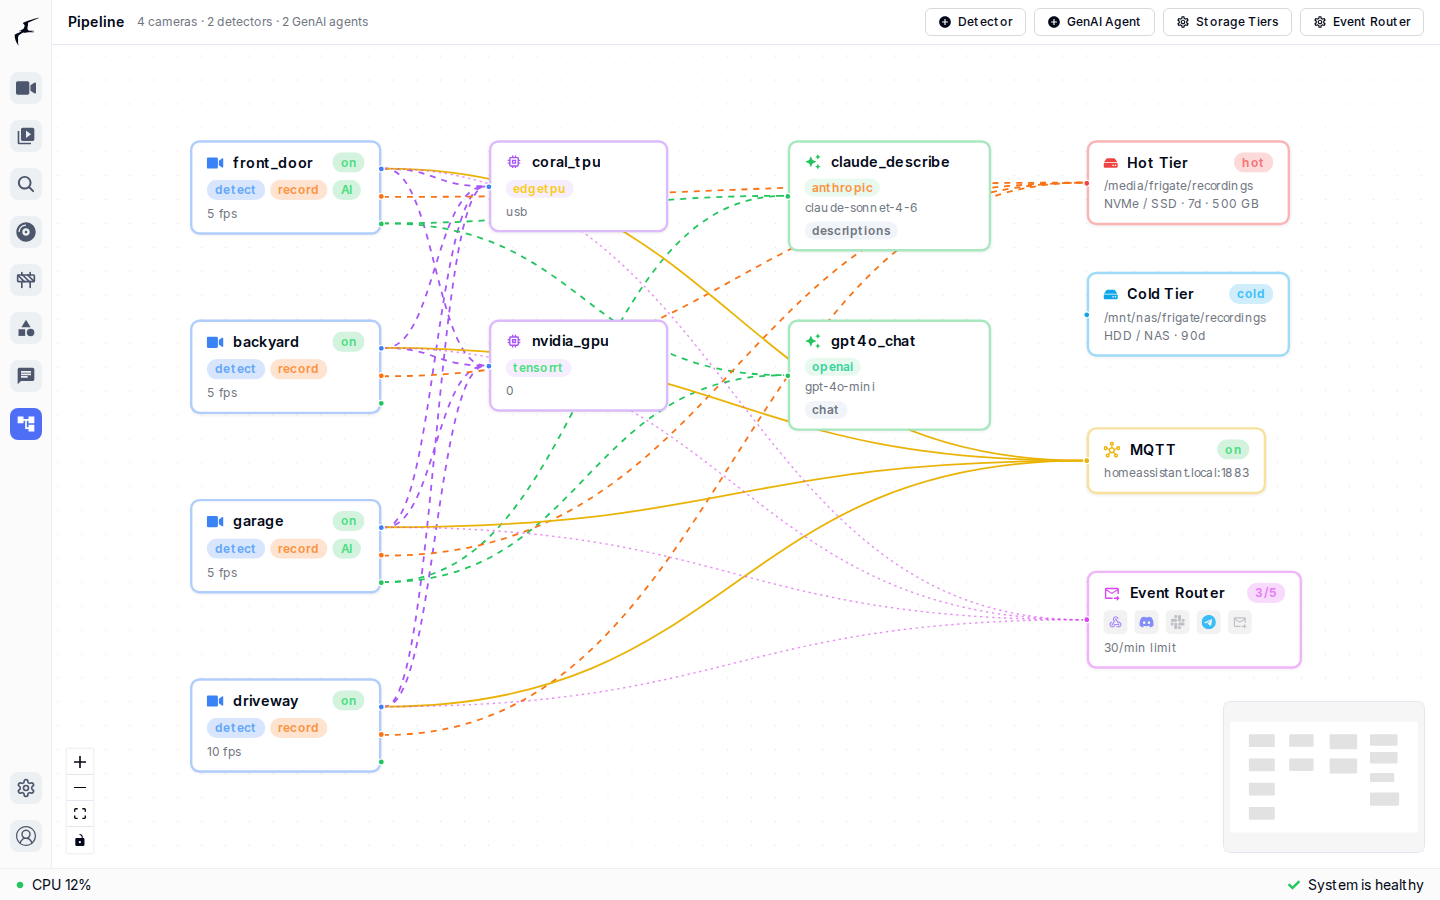
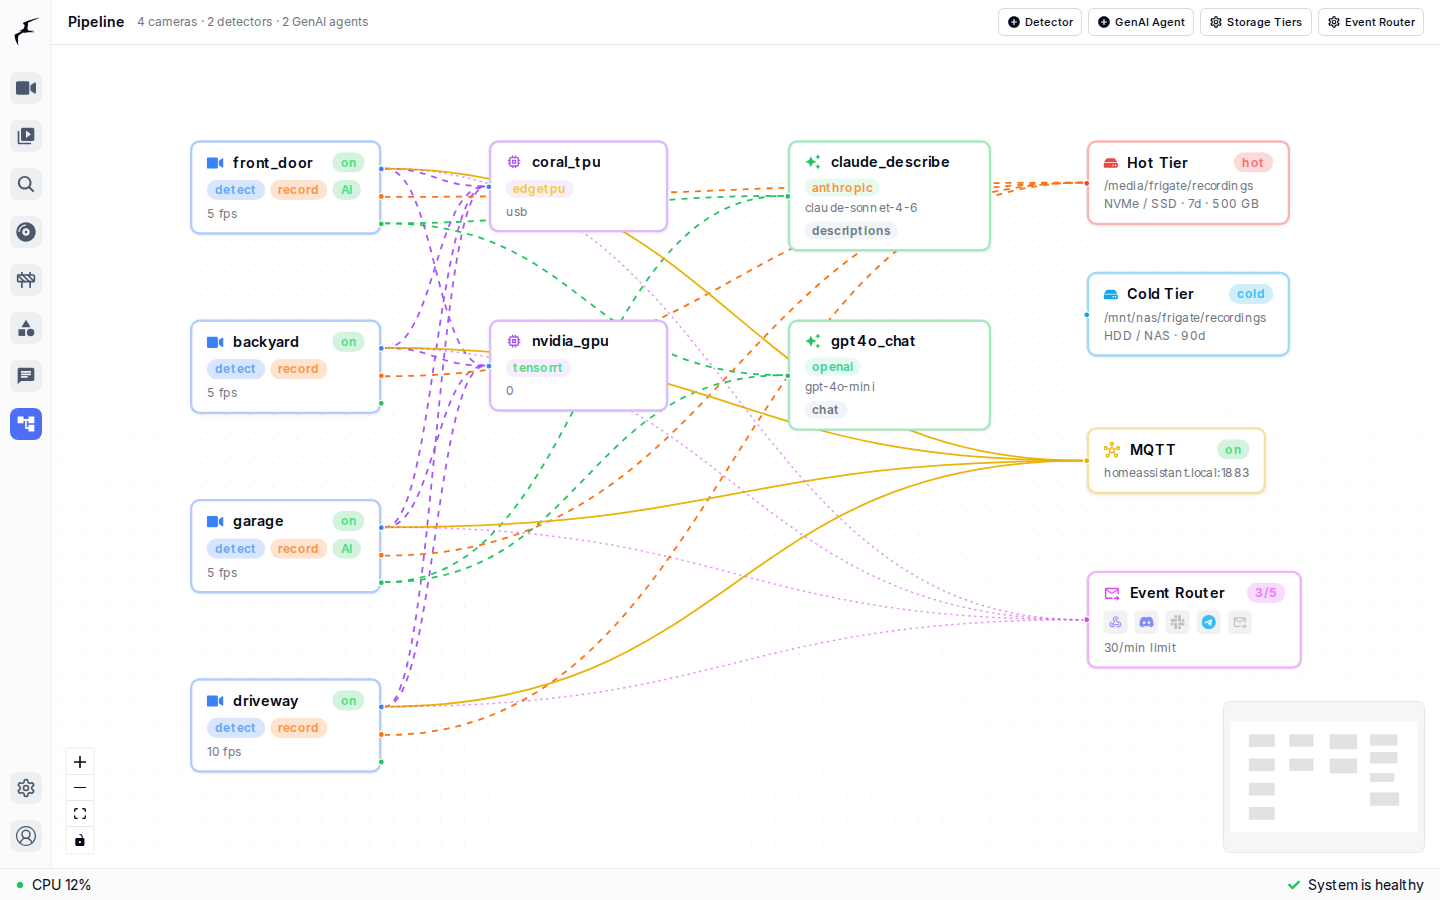
Fix mobile pipeline UX, add animated demo GIF, expand README
Mobile pipeline: hide MiniMap on mobile (react-device-detect isMobile),
collapse toolbar button labels to icon-only on small screens, reduce
fitView padding to 0.1 and minZoom to 0.15 so the graph fits better on
a 390px wide viewport.

README: embed docs/images/demo.gif at the top, add full Screenshots
section with all 30 v2 dual-theme images, expand AI provider table
(8 providers × model examples), add benchmark environment table
(4-vCPU Intel Xeon KVM, 16 GB RAM, Ubuntu 24.04.4 LTS, kernel 6.18.5),
add detector hardware support table, tiered storage / event router /
encryption reference, and updated roadmap marking UI features done.

https://claude.ai/code/session_01UjASLRJqUzKcCsxZamX7ZE

Changed region(s): [[0.6562, 0.0, 0.9688, 0.0311], [0.6875, 0.1867, 0.7188, 0.2178]]

diff --git a/web/src/views/pipeline/PipelineFlow.tsx b/web/src/views/pipeline/PipelineFlow.tsx
@@ -14,6 +14,7 @@ import {
   BackgroundVariant,
 } from "@xyflow/react";
 import "@xyflow/react/dist/style.css";
+import { isMobile } from "react-device-detect";
 import { Button } from "@/components/ui/button";
 import ActivityIndicator from "@/components/indicators/activity-indicator";
 import { FrigateConfig } from "@/types/frigateConfig";
@@ -429,49 +430,55 @@ export function PipelineFlow() {
   return (
     <div className="relative flex h-full w-full flex-col">
       {/* Toolbar */}
-      <div className="flex shrink-0 items-center gap-3 border-b border-border bg-card px-4 py-2">
+      <div className="flex shrink-0 flex-wrap items-center gap-2 border-b border-border bg-card px-3 py-2 sm:gap-3 sm:px-4">
         <span className="text-sm font-semibold">Pipeline</span>
-        <span className="text-xs text-muted-foreground">
-          {Object.keys(config.cameras ?? {}).length} cameras ·{" "}
-          {Object.keys(config.detectors ?? {}).length} detectors ·{" "}
-          {Object.keys(config.genai ?? {}).length} GenAI agents
-        </span>
-        <div className="ml-auto flex flex-wrap gap-2">
+        {!isMobile && (
+          <span className="text-xs text-muted-foreground">
+            {Object.keys(config.cameras ?? {}).length} cameras ·{" "}
+            {Object.keys(config.detectors ?? {}).length} detectors ·{" "}
+            {Object.keys(config.genai ?? {}).length} GenAI agents
+          </span>
+        )}
+        <div className="ml-auto flex flex-wrap gap-1.5">
           <Button
             size="sm"
             variant="outline"
-            className="h-7 gap-1.5 text-xs"
+            className="h-7 gap-1 px-2 text-[11px]"
             onClick={() => setShowAddDetector(true)}
+            title="Add Detector"
           >
-            <MdAddCircle className="size-3.5" />
-            Detector
+            <MdAddCircle className="size-3.5 shrink-0" />
+            {!isMobile && "Detector"}
           </Button>
           <Button
             size="sm"
             variant="outline"
-            className="h-7 gap-1.5 text-xs"
+            className="h-7 gap-1 px-2 text-[11px]"
             onClick={() => setShowAddGenAI(true)}
+            title="Add GenAI Agent"
           >
-            <MdAddCircle className="size-3.5" />
-            GenAI Agent
+            <MdAddCircle className="size-3.5 shrink-0" />
+            {!isMobile && "GenAI Agent"}
           </Button>
           <Button
             size="sm"
             variant="outline"
-            className="h-7 gap-1.5 text-xs"
+            className="h-7 gap-1 px-2 text-[11px]"
             onClick={() => setShowTiers(true)}
+            title="Storage Tiers"
           >
-            <MdOutlineSettings className="size-3.5" />
-            Storage Tiers
+            <MdOutlineSettings className="size-3.5 shrink-0" />
+            {!isMobile && "Storage Tiers"}
           </Button>
           <Button
             size="sm"
             variant="outline"
-            className="h-7 gap-1.5 text-xs"
+            className="h-7 gap-1 px-2 text-[11px]"
             onClick={() => setShowRouter(true)}
+            title="Event Router"
           >
-            <MdOutlineSettings className="size-3.5" />
-            Event Router
+            <MdOutlineSettings className="size-3.5 shrink-0" />
+            {!isMobile && "Event Router"}
           </Button>
         </div>
       </div>
@@ -488,8 +495,8 @@ export function PipelineFlow() {
           onPaneClick={() => setSelectedNode(null)}
           nodeTypes={NODE_TYPES}
           fitView
-          fitViewOptions={{ padding: 0.25 }}
-          minZoom={0.25}
+          fitViewOptions={{ padding: isMobile ? 0.1 : 0.25 }}
+          minZoom={isMobile ? 0.15 : 0.25}
           maxZoom={2}
           proOptions={{ hideAttribution: true }}
           className="bg-background"
@@ -501,10 +508,12 @@ export function PipelineFlow() {
             className="opacity-30"
           />
           <Controls className="[&>button:hover]:bg-accent [&>button]:border-border [&>button]:bg-card [&>button]:text-foreground" />
-          <MiniMap
-            nodeStrokeWidth={3}
-            className="rounded-lg border border-border !bg-card"
-          />
+          {!isMobile && (
+            <MiniMap
+              nodeStrokeWidth={3}
+              className="rounded-lg border border-border !bg-card"
+            />
+          )}
         </ReactFlow>
       </div>
 

diff --git a/README.md b/README.md
@@ -6,7 +6,7 @@
 
 A modern, AI-first NVR built on Rust microservices, with end-to-end TLS, hardware-agnostic detection, and a visual pipeline editor.
 
-![Pipeline canvas](docs/images/hero-canvas-dark.png)
+![Argus UI demo](docs/images/demo.gif)
 
 </div>
 
@@ -18,7 +18,7 @@ A modern, AI-first NVR built on Rust microservices, with end-to-end TLS, hardwar
 
 **You get:**
 
-- 🦀 **6 Rust microservices** handling everything storage and IPC. Sub-millisecond IPC, 15ms cold starts, 50× fewer subprocess forks per minute.
+- 🦀 **6 Rust microservices** handling everything storage and IPC. Sub-millisecond IPC, 15 ms cold starts, 50× fewer subprocess forks per minute.
 - 🎯 **Visual pipeline editor** — wire cameras → detectors → AI agents → storage from your browser. No more hand-edited YAML.
 - 🤖 **8 LLM providers built-in** — Anthropic Claude, OpenAI, Azure, Gemini, Zhipu GLM, Alibaba Qwen, Ollama, llama.cpp. Hot-swap providers per camera.
 - 🔐 **Native TOTP 2FA** for admin accounts with recovery codes. RFC 6238 implementation using only the `cryptography` wheel — no extra deps.
@@ -66,35 +66,140 @@ First-time login: username `admin`, password printed once to the container log. 
 
 ---
 
+## Screenshots
+
+### Visual pipeline editor
+
+The pipeline page gives a live graph of your entire NVR stack. Click any node to edit its settings. Drag nodes to rearrange. Use the toolbar to add detectors, GenAI agents, and configure tiered storage or event routing.
+
+| Dark theme | Light theme |
+|:---:|:---:|
+| ![Pipeline dark](docs/images/v2/pipeline-tiered-dark.png) | ![Pipeline light](docs/images/v2/pipeline-tiered-light.png) |
+
+### Tiered storage configuration
+
+| Dark theme | Light theme |
+|:---:|:---:|
+| ![Tiers dark](docs/images/v2/dialog-tiers-dark.png) | ![Tiers light](docs/images/v2/dialog-tiers-light.png) |
+
+### Event router configuration
+
+| Dark theme | Light theme |
+|:---:|:---:|
+| ![Router dark](docs/images/v2/dialog-router-dark.png) | ![Router light](docs/images/v2/dialog-router-light.png) |
+
+### User management with 2FA
+
+| Users list | 2FA intro | QR code scan | Code verify | Recovery codes |
+|:---:|:---:|:---:|:---:|:---:|
+| ![Users](docs/images/v2/users-list-dark.png) | ![Intro](docs/images/v2/twofa-intro-dark.png) | ![QR](docs/images/v2/twofa-scan-dark.png) | ![Verify](docs/images/v2/twofa-verify-dark.png) | ![Recovery](docs/images/v2/twofa-recovery-dark.png) |
+
+### Mobile-responsive UI
+
+All pages adapt to mobile viewports. The pipeline hides the minimap and collapses toolbar labels to icons on small screens.
+
+| Login | 2FA prompt | Pipeline |
+|:---:|:---:|:---:|
+| ![Mobile login](docs/images/v2/mobile-login-dark.png) | ![Mobile 2FA](docs/images/v2/mobile-login-2fa-dark.png) | ![Mobile pipeline](docs/images/v2/mobile-pipeline-dark.png) |
+
+| Settings menu | Users |
+|:---:|:---:|
+| ![Mobile settings](docs/images/v2/mobile-settings-menu-dark.png) | ![Mobile users](docs/images/v2/mobile-users-dark.png) |
+
+---
+
 ## Features at a glance
 
 ### 🎯 Visual pipeline editor
 
 Click a node to edit. Drag to rearrange. Add detectors and GenAI agents from a 2-column grid of provider cards. Every numeric field uses a slider so you can sweep through values and see the effect.
 
-| Pipeline canvas | Camera config | GenAI agent config |
-|:---:|:---:|:---:|
-| ![Canvas](docs/images/hero-canvas-dark.png) | ![Camera edit](docs/images/edit-camera.png) | ![GenAI edit](docs/images/edit-genai.png) |
+The pipeline automatically shows **tiered storage nodes** (hot/cold) when tiered storage is enabled, and always shows the **Event Router** node so you can configure notification sinks without touching YAML.
 
 ### 🤖 8 LLM providers, one click
 
-| Add agent dialog | Detector picker |
-|:---:|:---:|
-| ![Add GenAI](docs/images/add-genai.png) | ![Add detector](docs/images/add-detector.png) |
+| Provider | Model examples | Local / cloud | API key needed |
+|---|---|---|---|
+| **Anthropic Claude** | claude-opus-4-7, claude-sonnet-4-6 | Cloud | ✅ |
+| **OpenAI** | gpt-4o, gpt-4o-mini, o1, o3 | Cloud | ✅ |
+| **Azure OpenAI** | Any Azure deployment | Cloud | ✅ |
+| **Google Gemini** | gemini-2.0-flash, gemini-1.5-pro | Cloud | ✅ |
+| **Zhipu GLM** | glm-4v, glm-4v-plus | Cloud | ✅ |
+| **Alibaba Qwen** | qwen-vl-max, qwen-vl-plus | Cloud | ✅ |
+| **Ollama** | llava:34b, llava-phi3, moondream | Local | ❌ |
+| **llama.cpp** | Any GGUF vision model | Local | ❌ |
 
 Pick a provider card and Argus auto-fills the default model, recommended base URL, and shows only the fields that provider actually needs. Local-only setups (Ollama, llama.cpp) skip the API-key field entirely.
 
+**GenAI roles:** Each agent can be assigned one or more roles — `descriptions` (generate natural-language event descriptions), `chat` (conversational Q&A about detections). Multiple agents can chain roles.
+
 ### 🔐 Secure login with 2FA
 
-| Sign in | Authenticator code | Recovery code |
-|:---:|:---:|:---:|
-| ![Login](docs/images/login-creds.png) | ![2FA](docs/images/login-2fa-typed.png) | ![Recovery](docs/images/login-recovery.png) |
-
 - **TOTP (RFC 6238)**, SHA-1, 30-second period, 6 digits — compatible with Google Authenticator, 1Password, Authy, Bitwarden, and Aegis.
-- **10 one-time recovery codes** (format `XXXX-XXXX-XXXX`) generated on enrollment.
+- **4-stage enrollment wizard**: intro → QR code scan (with manual secret copy fallback) → first-code verification → recovery code download.
+- **10 one-time recovery codes** (format `XXXX-XXXX-XXXX`) generated on enrollment. Each is consumed atomically — works exactly once.
 - **Short-lived JWT challenge token** (5 min) issued after the password step; final session JWT only after the 2FA code verifies.
 - `slowapi` rate-limit applied to both `/login` and `/login/2fa`.
-- Recovery codes consumed atomically (each works once).
+
+### 🗄 Tiered storage
+
+Recordings flow into a **hot tier** (fast NVMe or SSD) and are automatically migrated to a **cold tier** (HDD or NAS) by the `tiered-storage` Rust daemon when they age past the hot policy. The move is a copy-then-unlink (works across filesystems) and the SQLite `Recordings.path` column is updated in WAL mode with a 30-second busy timeout so Python and Rust co-exist gracefully.
+
+```yaml
+storage_tiers:
+  hot:  { path: /media/argus/hot,  max_days: 7,  max_gb: 500 }
+  cold: { path: /media/argus/cold, max_days: 90 }
+  policy:
+    event_hot_days: 14          # retained events stay hot 2× longer
+    migration_interval: 3600    # seconds between migration sweeps
+```
+
+Configure hot and cold paths, retention windows, and disk caps directly in the **Storage Tiers** dialog — no YAML required.
+
+### 📡 Event routing
+
+The `event-router` Rust daemon subscribes to `event/*` topics on the ZMQ proxy and fans them out to:
+
+| Sink | Protocol | Rate-limited | Auth |
+|---|---|---|---|
+| **Webhook** | HTTP POST (JSON) | ✅ | HMAC-SHA256 signature |
+| **Discord** | Webhook URL | ✅ | None (URL is secret) |
+| **Slack** | Incoming webhook | ✅ | None (URL is secret) |
+| **Telegram** | Bot API | ✅ | Bot token + chat ID |
+| **MQTT** | TCP/TLS | ✅ | Username/password |
+
+All sinks share a global `governor` token-bucket rate limiter (default: 30/min). Messages that exceed the rate are written to a SQLite **dead-letter queue** and retried on the next successful send window.
+
+### 🔍 Multi-model detection chain
+
+The `detection-bridge` Rust daemon speaks the exact `zmq_ipc` detector wire protocol, so activating it requires exactly one `config.yml` change:
+
+```yaml
+detectors:
+  my_chain:
+    type: zmq
+detection_bridge:
+  models:
+    - path: /config/model_cache/yolov8s.onnx
+      type: yolov8
+    - path: /config/model_cache/license_plate.onnx
+      type: yologeneric
+      filter_labels: [car, motorcycle, bus, truck]
+  merge: sequential_filter   # secondary runs on primary's boxes only
+```
+
+No Python changes. No rebuild. The bridge handles ONNX Runtime via the `ort` crate (statically linked), supports both `yolov8` and generic `yologeneric` ONNX topologies, and is multi-arch (amd64 + arm64/Jetson).
+
+### 📦 At-rest encryption
+
+The `encrypted-storage` Rust daemon transparently encrypts every MP4 segment before writing it to disk:
+
+- **Algorithm:** AES-256-GCM on x86 (hardware AES-NI), ChaCha20-Poly1305 on ARM/Pi (NEON)
+- **KDF:** Argon2id, memory cost 64 MiB, time cost 3, random salt per key
+- **File header:** `[magic(4) | version(4) | nonce(12) | key_id(32) | ciphertext...]`
+- **Read path:** HTTP range-decrypt server on `127.0.0.1:5002`; Nginx proxies `.mp4` reads there transparently
+
+Activation: set `STORAGE_ENCRYPTION_KEY` in the container environment. Zero code changes.
 
 ### 🦀 Rust microservices
 
@@ -109,9 +214,25 @@ Pick a provider card and Argus auto-fills the default model, recommended base UR
 
 All cargo tests pass — **68 tests across 6 crates**, 0 clippy warnings.
 
-### 📊 Performance
+---
 
-Measured on this branch with a real running `comms-dispatcher` and `pyzmq` clients (the same code path Frigate's Python uses):
+## Performance
+
+### Benchmark environment
+
+| Component | Details |
+|---|---|
+| **Cloud provider** | KVM virtual machine |
+| **CPU** | Intel Xeon @ 2.10 GHz — 4 vCPUs (4 cores, 1 thread/core) |
+| **RAM** | 16 GB (DDR4, no swap) |
+| **OS** | Ubuntu 24.04.4 LTS (Noble) — kernel 6.18.5 |
+| **Compiler** | Rust 1.82.0, release profile (`opt-level=3`, `lto=thin`) |
+| **ZMQ** | libzmq 4.3.5 (in-process IPC sockets, no network hops) |
+| **SQLite** | 3.45.3, WAL mode, `synchronous=NORMAL`, `busy_timeout=30 000 ms` |
+
+### Results
+
+Measured with a real running `comms-dispatcher` and `pyzmq` clients (the same code path Frigate's Python uses):
 
 ![Performance chart](docs/images/perf-chart.png)
 
@@ -177,6 +298,22 @@ Measured on this branch with a real running `comms-dispatcher` and `pyzmq` clien
    │       activates by setting detector.type: zmq            │
    └──────────────────────────────────────────────────────────┘
 ```
+
+---
+
+## Detector hardware support
+
+| Hardware | Type key | Notes |
+|---|---|---|
+| Google Coral TPU (USB) | `edgetpu` | M.2 + USB variants, SSD MobileNet v2 |
+| Google Coral TPU (PCIe M.2) | `edgetpu` | Requires pcie driver in container |
+| NVIDIA GPU | `tensorrt` | TensorRT 8+, YOLOv8 engines |
+| Intel iGPU / Arc | `openvino` | OpenVINO IR format models |
+| Hailo-8/8L | `hailo8` | Hailo Model Zoo YOLO variants |
+| AMD GPU (ROCm) | `rocm` | ROCm 5.7+, experimental |
+| Synaptics SL1680 | `sl1680` | SSD only (YOLOv8 pending) |
+| Multi-model chain | `zmq` | Activates detection-bridge Rust daemon |
+| CPU fallback | `cpu` | OpenCV DNN, no hardware needed |
 
 ---
 
@@ -275,8 +412,11 @@ event_router:
 | ✅ | Anthropic/GLM/Qwen GenAI providers |
 | ✅ | Visual pipeline editor (React Flow) |
 | ✅ | Native TOTP 2FA with recovery codes |
+| ✅ | 2FA enrollment wizard UI (4-stage dialog) |
+| ✅ | Tiered storage UI (hot/cold config dialog) |
+| ✅ | Event router UI (per-sink enable/config dialog) |
+| ✅ | Mobile-responsive pipeline (no minimap, compact toolbar) |
 | 🚧 | Synaptics SL1680 YOLO support (currently SSD only) |
-| 🚧 | Multi-user 2FA enrollment UI (currently admin-only) |
 | 🔭 | WebAuthn / hardware security keys |
 | 🔭 | Federated multi-site dashboard |
 
